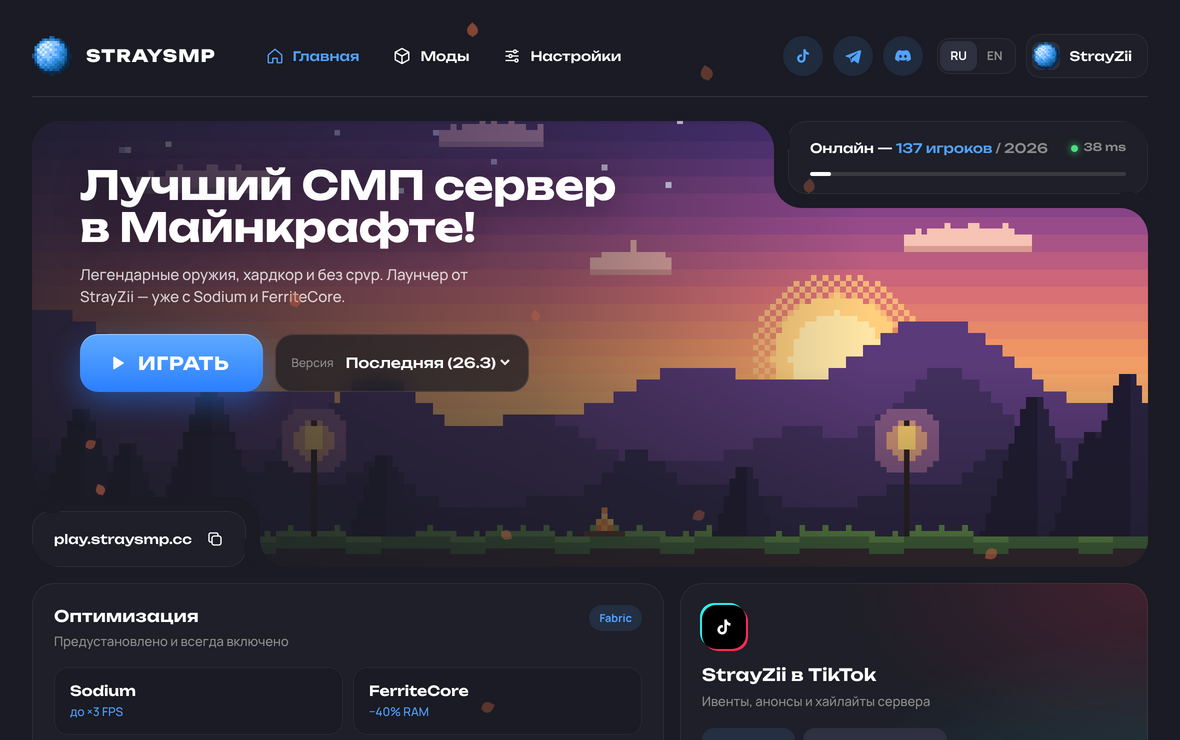
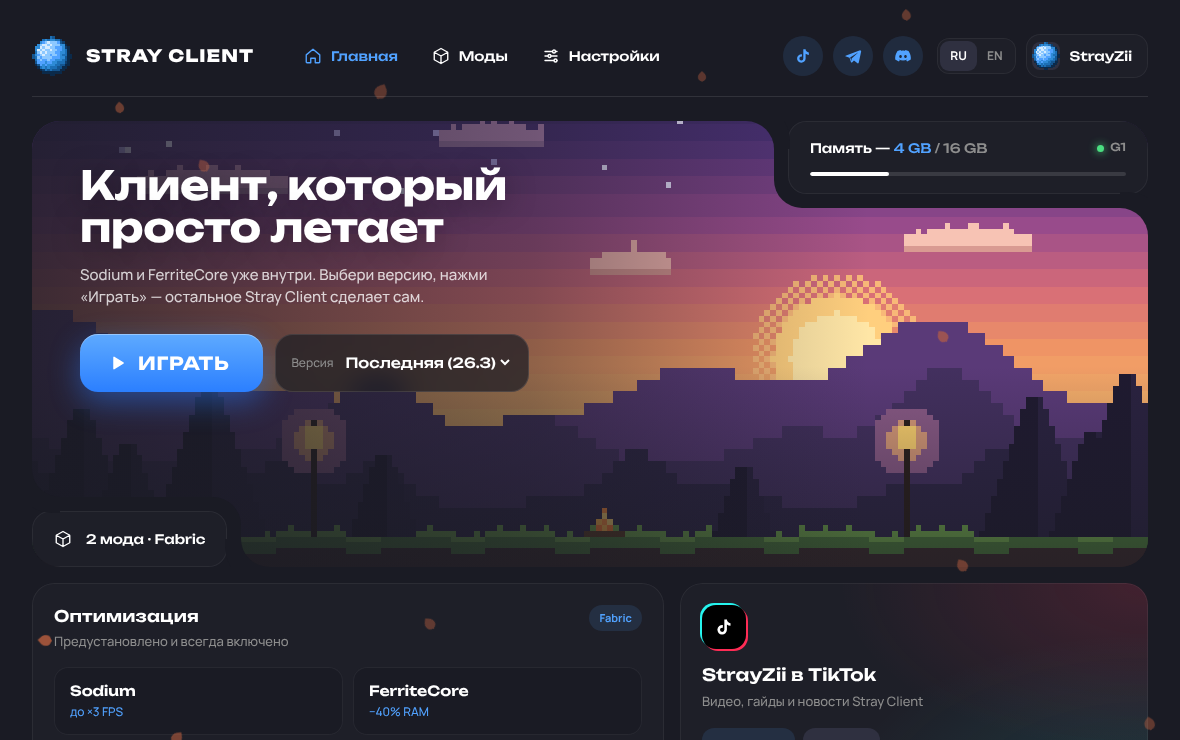
Client: focus UI on the client, rename to Stray Client; site screenshot gallery
- Hero copy about the client, memory/GC card and mods chip replace server status
- Fix 'load more' button showing on the installed tab
- Website: 7-shot gallery with captions, swipe on mobile

Claude-Session: https://claude.ai/code/session_01EKR2RorTuDivRz6EMqGW66

diff --git a/index.html b/index.html
@@ -96,10 +96,23 @@
     .stat b { display: block; font-family: var(--display); font-size: 34px; font-weight: 700; color: var(--accent); }
     .stat span { font-size: 14px; color: var(--muted); }
 
-    .shots { display: grid; grid-template-columns: 1.4fr 1fr; gap: 16px; }
-    .shots img { width: 100%; border-radius: 20px; display: block; box-shadow: 0 0 0 1px var(--ring-2), 0 30px 60px rgba(0,0,0,.35); }
-    .shots .col { display: grid; gap: 16px; }
 
+    .gallery { display: grid; gap: 14px; }
+    .viewer { position: relative; margin: 0; border-radius: 22px; overflow: hidden; background: var(--panel); box-shadow: 0 0 0 1px var(--ring-2), 0 30px 60px rgba(0,0,0,.35); }
+    .viewer img { width: 100%; height: auto; display: block; aspect-ratio: 1180 / 740; transition: opacity .2s; }
+    .viewer img.fade { opacity: .25; }
+    .viewer figcaption { padding: 16px 22px; font-size: 15px; color: var(--muted); border-top: 1px solid var(--ring); }
+    .viewer figcaption b { color: var(--text); }
+    .g-nav { position: absolute; top: calc(50% - 50px); width: 46px; height: 46px; border-radius: 50%; border: 0; display: grid; place-items: center; background: rgba(26,27,36,.75); backdrop-filter: blur(8px); color: #fff; cursor: pointer; box-shadow: 0 0 0 1px var(--ring-2); transition: background .15s; }
+    .g-nav:hover { background: var(--accent-2); }
+    .g-prev { left: 14px; } .g-next { right: 14px; }
+    .thumbs { display: grid; grid-template-columns: repeat(7, 1fr); gap: 10px; }
+    .thumbs button { padding: 0; border: 0; background: var(--panel); border-radius: 14px; overflow: hidden; cursor: pointer; color: var(--muted); font: 700 12px var(--body); box-shadow: inset 0 0 0 1px var(--ring); transition: box-shadow .15s, color .15s, transform .15s; }
+    .thumbs button:hover { color: var(--text); transform: translateY(-2px); }
+    .thumbs button.on { color: var(--accent); box-shadow: inset 0 0 0 2px var(--accent); }
+    .thumbs img { width: 100%; aspect-ratio: 1180 / 740; object-fit: cover; display: block; }
+    .thumbs span { display: block; padding: 8px 6px 9px; }
+    @media (max-width: 900px) { .thumbs { grid-template-columns: none; grid-auto-flow: column; grid-auto-columns: 140px; overflow-x: auto; scroll-snap-type: x mandatory; padding-bottom: 6px; } .thumbs button { scroll-snap-align: start; } .g-nav { display: none; } }
     table { width: 100%; border-collapse: separate; border-spacing: 0; background: var(--panel); border-radius: 22px; overflow: hidden; box-shadow: inset 0 0 0 1px var(--ring); }
     th, td { padding: 16px 22px; text-align: left; border-bottom: 1px solid var(--ring); font-size: 15px; }
     th { font-family: var(--display); font-size: 13px; font-weight: 600; color: var(--muted); background: rgba(255,255,255,.015); }
@@ -146,7 +159,7 @@
     @media (max-width: 900px) {
       nav { display: none; }
       .grid, .stats { grid-template-columns: 1fr 1fr; }
-      .shots, .os-cards { grid-template-columns: 1fr; }
+      .os-cards { grid-template-columns: 1fr; }
       .hero-inner { padding: 44px 28px 100px; }
     }
     @media (max-width: 560px) {
@@ -249,13 +262,23 @@
     <section>
       <div class="sec-head">
         <div><div class="eyebrow">Интерфейс</div><h2>Чистый и быстрый</h2></div>
-        <p class="muted">Тёмная тема, всё важное на одном экране. Русский и английский язык.</p>
+        <p class="muted">Тёмная тема, всё важное на одном экране. Русский и английский язык. Листай скриншоты →</p>
       </div>
-      <div class="shots">
-        <img src="docs/home.png" alt="Главный экран клиента" loading="lazy" />
-        <div class="col">
-          <img src="docs/mods.png" alt="Поиск модов" loading="lazy" />
-          <img src="docs/settings.png" alt="Настройки" loading="lazy" />
+      <div class="gallery">
+        <figure class="viewer">
+          <img id="g-main" src="docs/home.png" alt="Главный экран Stray Client" width="1180" height="740" />
+          <figcaption id="g-cap"><b>Главный экран</b> — выбор версии, кнопка «Играть» и встроенная оптимизация.</figcaption>
+          <button class="g-nav g-prev" aria-label="Назад"><svg viewBox="0 0 24 24"><path d="m15 6-6 6 6 6"/></svg></button>
+          <button class="g-nav g-next" aria-label="Вперёд"><svg viewBox="0 0 24 24"><path d="m9 6 6 6-6 6"/></svg></button>
+        </figure>
+        <div class="thumbs" id="g-thumbs">
+          <button class="on" data-src="docs/home.png" data-cap="<b>Главный экран</b> — выбор версии, кнопка «Играть» и встроенная оптимизация."><img src="docs/home.png" alt="" loading="lazy" /><span>Главная</span></button>
+          <button data-src="docs/progress.png" data-cap="<b>Запуск</b> — Java, библиотеки и ресурсы качаются параллельно, прогресс прямо на кнопке."><img src="docs/progress.png" alt="" loading="lazy" /><span>Запуск</span></button>
+          <button data-src="docs/mods.png" data-cap="<b>Поиск модов</b> — Modrinth и CurseForge, только совместимые версии, установка в один клик."><img src="docs/mods.png" alt="" loading="lazy" /><span>Моды</span></button>
+          <button data-src="docs/installed.png" data-cap="<b>Установленные моды</b> — включай, выключай и удаляй. Sodium и FerriteCore всегда на месте."><img src="docs/installed.png" alt="" loading="lazy" /><span>Установленные</span></button>
+          <button data-src="docs/settings.png" data-cap="<b>Настройки</b> — память, сборщик мусора, размер окна, своя Java и аргументы JVM."><img src="docs/settings.png" alt="" loading="lazy" /><span>Настройки</span></button>
+          <button data-src="docs/login.png" data-cap="<b>Вход через Microsoft</b> — по коду на сайте Microsoft, без ввода пароля в клиенте."><img src="docs/login.png" alt="" loading="lazy" /><span>Вход</span></button>
+          <button data-src="docs/home-en.png" data-cap="<b>English</b> — язык переключается одной кнопкой, без перезапуска."><img src="docs/home-en.png" alt="" loading="lazy" /><span>English</span></button>
         </div>
       </div>
     </section>
@@ -304,8 +327,8 @@
           </div>
           <a class="btn btn-dl" id="dl-mac" href="https://github.com/MuMaFi/StrayClient/releases/latest">Скачать для macOS (.dmg)</a>
           <ol>
-            <li>Открой <b>.dmg</b> и перетащи Stray Launcher в «Программы».</li>
-            <li>При первом запуске: <b>правый клик → Открыть</b> (приложение пока не нотаризовано). Или в Терминале: <code>xattr -cr "/Applications/Stray Launcher.app"</code></li>
+            <li>Открой <b>.dmg</b> и перетащи Stray Client в «Программы».</li>
+            <li>При первом запуске: <b>правый клик → Открыть</b> (приложение пока не нотаризовано). Или в Терминале: <code>xattr -cr "/Applications/Stray Client.app"</code></li>
             <li>Войди через Microsoft и нажми <b>«Играть»</b>.</li>
           </ol>
         </div>
@@ -374,6 +397,32 @@
         })
         .catch(() => {});
 
+
+      // Screenshot gallery
+      const thumbs = [...document.querySelectorAll("#g-thumbs button")];
+      let gi = 0;
+      const show = (i) => {
+        gi = (i + thumbs.length) % thumbs.length;
+        const b = thumbs[gi], img = $("#g-main");
+        thumbs.forEach((x) => x.classList.toggle("on", x === b));
+        img.classList.add("fade");
+        const pre = new Image();
+        pre.onload = () => { img.src = b.dataset.src; img.classList.remove("fade"); };
+        pre.src = b.dataset.src;
+        $("#g-cap").innerHTML = b.dataset.cap;
+        img.alt = b.querySelector("span").textContent;
+      };
+      thumbs.forEach((b, i) => b.addEventListener("click", () => show(i)));
+      document.querySelector(".g-prev").addEventListener("click", () => show(gi - 1));
+      document.querySelector(".g-next").addEventListener("click", () => show(gi + 1));
+      let sx = null;
+      $("#g-main").addEventListener("touchstart", (e) => (sx = e.touches[0].clientX), { passive: true });
+      $("#g-main").addEventListener("touchend", (e) => {
+        if (sx === null) return;
+        const dx = e.changedTouches[0].clientX - sx;
+        if (Math.abs(dx) > 40) show(gi + (dx < 0 ? 1 : -1));
+        sx = null;
+      });
 
       // Falling leaves, like on shop.straysmp.cc. Transform-only, so it's cheap.
       const box = $("#leaves");

diff --git a/ui/i18n.js b/ui/i18n.js
@@ -4,14 +4,14 @@ window.I18N = {
     "nav.home": "Главная",
     "nav.mods": "Моды",
     "nav.settings": "Настройки",
-    "hero.title": "Лучший СМП сервер в Майнкрафте!",
-    "hero.sub": "Легендарные оружия, хардкор и без cpvp. Лаунчер от StrayZii — уже с Sodium и FerriteCore.",
+    "hero.title": "Клиент, который просто летает",
+    "hero.sub": "Sodium и FerriteCore уже внутри. Выбери версию, нажми «Играть» — остальное Stray Client сделает сам.",
     "play": "Играть",
     "play.preparing": "Подготовка…",
     "play.running": "Игра запущена",
-    "online": "Онлайн",
-    "players": "игроков",
-    "offline": "Сервер недоступен",
+    "mem": "Память",
+    "modsCount": "{0} {1} · Fabric",
+    "ready": "Готов к игре",
     "copy": "Скопировано!",
     "version": "Версия",
     "version.latest": "Последняя",
@@ -21,7 +21,7 @@ window.I18N = {
     "perf.fps": "до ×3 FPS",
     "perf.ram": "−40% RAM",
     "zii.title": "StrayZii в TikTok",
-    "zii.sub": "Ивенты, анонсы и хайлайты сервера",
+    "zii.sub": "Видео, гайды и новости Stray Client",
     "zii.btn": "Открыть TikTok",
     "community": "Сообщество",
     "stage.meta": "Загрузка данных версии",
@@ -48,7 +48,7 @@ window.I18N = {
     "set.language": "Язык",
     "set.version": "Версия игры",
     "set.autojoin": "Сразу заходить на play.straysmp.cc",
-    "set.close": "Сворачивать лаунчер при запуске игры",
+    "set.close": "Сворачивать клиент при запуске игры",
     "set.motion": "Отключить анимации (листья)",
     "set.perf": "Производительность",
     "set.memory": "Оперативная память",
@@ -64,7 +64,7 @@ window.I18N = {
     "set.cfKey": "CurseForge API-ключ",
     "set.cfHint": "Получить на console.curseforge.com. Modrinth работает без ключа.",
     "set.folders": "Папки",
-    "set.openRoot": "Папка лаунчера",
+    "set.openRoot": "Папка клиента",
     "set.openGame": "Папка игры",
     "set.openLogs": "Логи",
     "set.saved": "Сохранено",
@@ -91,14 +91,14 @@ window.I18N = {
     "nav.home": "Home",
     "nav.mods": "Mods",
     "nav.settings": "Settings",
-    "hero.title": "The best SMP server in Minecraft!",
-    "hero.sub": "Legendary weapons, hardcore and no cpvp. StrayZii's launcher — Sodium and FerriteCore built in.",
+    "hero.title": "The client that just flies",
+    "hero.sub": "Sodium and FerriteCore built in. Pick a version, hit Play — Stray Client takes care of the rest.",
     "play": "Play",
     "play.preparing": "Preparing…",
     "play.running": "Game running",
-    "online": "Online",
-    "players": "players",
-    "offline": "Server unreachable",
+    "mem": "Memory",
+    "modsCount": "{0} {1} · Fabric",
+    "ready": "Ready to play",
     "copy": "Copied!",
     "version": "Version",
     "version.latest": "Latest",
@@ -108,7 +108,7 @@ window.I18N = {
     "perf.fps": "up to 3× FPS",
     "perf.ram": "−40% RAM",
     "zii.title": "StrayZii on TikTok",
-    "zii.sub": "Events, announcements and server highlights",
+    "zii.sub": "Videos, guides and Stray Client news",
     "zii.btn": "Open TikTok",
     "community": "Community",
     "stage.meta": "Fetching version data",
@@ -135,7 +135,7 @@ window.I18N = {
     "set.language": "Language",
     "set.version": "Game version",
     "set.autojoin": "Join play.straysmp.cc right away",
-    "set.close": "Minimize launcher while playing",
+    "set.close": "Minimize client while playing",
     "set.motion": "Reduce motion (falling leaves)",
     "set.perf": "Performance",
     "set.memory": "Memory",
@@ -151,7 +151,7 @@ window.I18N = {
     "set.cfKey": "CurseForge API key",
     "set.cfHint": "Get one at console.curseforge.com. Modrinth needs no key.",
     "set.folders": "Folders",
-    "set.openRoot": "Launcher folder",
+    "set.openRoot": "Client folder",
     "set.openGame": "Game folder",
     "set.openLogs": "Logs",
     "set.saved": "Saved",

diff --git a/ui/app.js b/ui/app.js
@@ -39,6 +39,7 @@
     renderVersionSelects();
     renderAccount();
     updateMemHint();
+    renderStatus();
     if (!S.busy && !S.running) $("#play-label").textContent = t("play");
   }
 
@@ -94,23 +95,23 @@
   const syncPause = () => document.body.classList.toggle("paused", document.hidden || S.running);
   document.addEventListener("visibilitychange", syncPause);
 
-  // ───────── server status ─────────
-  async function refreshStatus() {
-    if (document.hidden || S.running) return;
-    const s = await api.call("server_status").catch(() => null);
-    const up = s && s.online;
-    $("#online-count").textContent = up ? `${s.players} ${t("players")}` : t("offline");
-    $("#online-max").textContent = up && s.max ? ` / ${s.max}` : "";
-    $("#online-count").title = up ? s.version : "";
-    $("#online-bar").style.width = up && s.max ? Math.max(2, Math.min(100, (s.players / s.max) * 100)) + "%" : "0";
-    const ping = $("#ping");
-    ping.classList.toggle("up", !!up);
-    ping.textContent = up ? `${s.ping_ms} ms` : "";
+  // ───────── client status (hero cards) ─────────
+  function renderStatus() {
+    if (!S.init) return;
+    const gb = (mb) => (mb / 1024).toFixed(mb % 1024 ? 1 : 0) + " GB";
+    const total = S.init.totalMemoryMb || 0;
+    $("#mem-use").textContent = gb(S.settings.memoryMb);
+    $("#mem-total").textContent = total ? ` / ${gb(total)}` : "";
+    $("#mem-bar").style.width = total ? Math.max(2, Math.min(100, (S.settings.memoryMb / total) * 100)) + "%" : "0";
+    $("#gc-label").textContent = S.settings.gc === "lowlatency" ? "ZGC" : "G1";
+    const n = S.installed.length || 2;
+    let word;
+    if (S.settings.language === "ru") {
+      const m10 = n % 10, m100 = n % 100;
+      word = m10 === 1 && m100 !== 11 ? "мод" : m10 >= 2 && m10 <= 4 && (m100 < 12 || m100 > 14) ? "мода" : "модов";
+    } else word = n === 1 ? "mod" : "mods";
+    $("#mods-chip-label").textContent = t("modsCount", n, word);
   }
-  $("#copy-ip").addEventListener("click", async () => {
-    try { await navigator.clipboard.writeText("play.straysmp.cc"); } catch {}
-    toast(t("copy"));
-  });
 
   // ───────── versions ─────────
   const currentGame = () => S.settings.gameVersion || S.versions[0] || "";
@@ -213,7 +214,6 @@
       S.running = false;
       setPlay("idle", t("play"));
       if (g.code && g.code !== 0) toast(t("game.crashed", g.code), true);
-      refreshStatus();
     }
     syncPause();
   });
@@ -234,6 +234,7 @@
 
   // ───────── performance extras on home ─────────
   function renderPerf() {
+    renderStatus();
     const have = new Set(S.installed.map((m) => m.slug));
     $("#perf-extras").innerHTML = PERF.map(
       (p) => `<button class="extra ${have.has(p.slug) ? "on" : ""} ${S.installing.has(p.slug) ? "busy" : ""}" data-slug="${p.slug}">${p.title}</button>`
@@ -426,6 +427,7 @@
     mem.addEventListener("input", () => {
       s.memoryMb = +mem.value;
       updateMemHint();
+      renderStatus();
       saveSoon();
     });
     const checks = { "#set-autojoin": "autoJoin", "#set-close": "closeOnLaunch", "#set-motion": "reduceMotion" };
@@ -464,6 +466,7 @@
         s[key] = b.dataset.v;
         sync();
         after?.();
+        renderStatus();
         saveSoon();
       });
     };
@@ -490,8 +493,6 @@
     bindSettings();
     applyI18n();
     makeLeaves();
-    refreshStatus();
-    setInterval(refreshStatus, 30000);
     S.versions = await api.call("game_versions").catch(() => []);
     renderVersionSelects();
     S.installed = await api.call("mods_list", { game: currentGame() }).catch(() => []);

diff --git a/ui/index.html b/ui/index.html
@@ -3,7 +3,7 @@
 <head>
   <meta charset="utf-8" />
   <meta name="viewport" content="width=device-width, initial-scale=1" />
-  <title>Stray Launcher</title>
+  <title>Stray Client</title>
   <link rel="stylesheet" href="styles.css" />
 </head>
 <body>
@@ -13,7 +13,7 @@
   <header class="top" data-tauri-drag-region>
     <a class="brand" data-page="home">
       <img src="assets/logo.svg" alt="" width="40" height="40" />
-      <span>STRAYSMP</span>
+      <span>STRAY CLIENT</span>
     </a>
     <nav class="nav">
       <button class="nav-btn active" data-page="home">
@@ -72,18 +72,18 @@
           <div class="stage" id="stage"></div>
         </div>
         <div class="notch notch-ip">
-          <button class="ip" id="copy-ip">
-            <span>play.straysmp.cc</span>
-            <svg viewBox="0 0 24 24"><rect x="8" y="8" width="12" height="12" rx="3"/><path d="M16 8V6a2 2 0 0 0-2-2H6a2 2 0 0 0-2 2v8a2 2 0 0 0 2 2h2"/></svg>
+          <button class="ip" id="mods-chip" data-page="mods">
+            <svg viewBox="0 0 24 24"><path d="M12 2 3 7v10l9 5 9-5V7zM12 12 3 7m9 5 9-5m-9 5v10"/></svg>
+            <span id="mods-chip-label"></span>
           </button>
         </div>
         <div class="notch notch-online">
           <div class="online-card">
             <div class="online-row">
-              <span><span data-i18n="online"></span> — <b id="online-count">…</b><span class="muted" id="online-max"></span></span>
-              <span class="ping" id="ping"></span>
+              <span><span data-i18n="mem"></span> — <b id="mem-use">…</b><span class="muted" id="mem-total"></span></span>
+              <span class="ping up" id="gc-label"></span>
             </div>
-            <div class="bar"><i id="online-bar"></i></div>
+            <div class="bar"><i id="mem-bar"></i></div>
           </div>
         </div>
       </div>
@@ -114,7 +114,7 @@
           <p class="muted" data-i18n="zii.sub"></p>
           <div class="zii-actions">
             <button class="btn btn-soft" data-url="https://www.tiktok.com/@strayzii"><span>@StrayZii</span></button>
-            <button class="btn btn-ghost" data-url="https://shop.straysmp.cc">shop.straysmp.cc</button>
+            <button class="btn btn-ghost" data-url="https://github.com/MuMaFi/StrayClient">GitHub</button>
           </div>
         </div>
       </div>

diff --git a/ui/styles.css b/ui/styles.css
@@ -234,6 +234,7 @@ main { position: relative; z-index: 2; height: calc(100% - 93px); overflow-y: au
 .icon-btn svg { width: 17px; height: 17px; }
 .empty { grid-column: 1/-1; padding: 50px 0; text-align: center; color: var(--muted); }
 .more { display: flex; margin: 16px auto 0; }
+.more[hidden], .notice[hidden] { display: none; }
 .skeleton { height: 84px; border-radius: 18px; background: linear-gradient(90deg, var(--panel) 0%, var(--panel-2) 50%, var(--panel) 100%) 0 0 / 200% 100%; animation: sk 1.2s linear infinite; }
 @keyframes sk { to { background-position: -200% 0; } }
 

diff --git a/README.md b/README.md
@@ -2,7 +2,7 @@
 
 <img src="ui/assets/logo.svg" width="72" alt="" />
 
-# Stray Launcher
+# Stray Client
 
 **Fast, native Minecraft launcher for [StraySMP](https://shop.straysmp.cc) · by the StrayZii community**
 
@@ -46,8 +46,8 @@ The goal is to beat Dawn for StraySMP players: get people into the game faster a
 
 Download page (RU): **https://mumafi.github.io/StrayClient/** · or grab the latest installer from **[Releases](../../releases)**:
 
-- **macOS:** `Stray.Launcher_x.y.z_universal.dmg`. The app isn't notarized yet, so on first launch right-click → *Open*, or run `xattr -cr "/Applications/Stray Launcher.app"`.
-- **Windows:** `Stray.Launcher_x.y.z_x64-setup.exe` (or `.msi`). SmartScreen may warn about an unknown publisher → *More info* → *Run anyway*.
+- **macOS:** `Stray.Client_x.y.z_universal.dmg`. The app isn't notarized yet, so on first launch right-click → *Open*, or run `xattr -cr "/Applications/Stray Client.app"`.
+- **Windows:** `Stray.Client_x.y.z_x64-setup.exe` (or `.msi`). SmartScreen may warn about an unknown publisher → *More info* → *Run anyway*.
 
 Every push to `main` also produces installers as workflow artifacts under **Actions → Build**.
 
